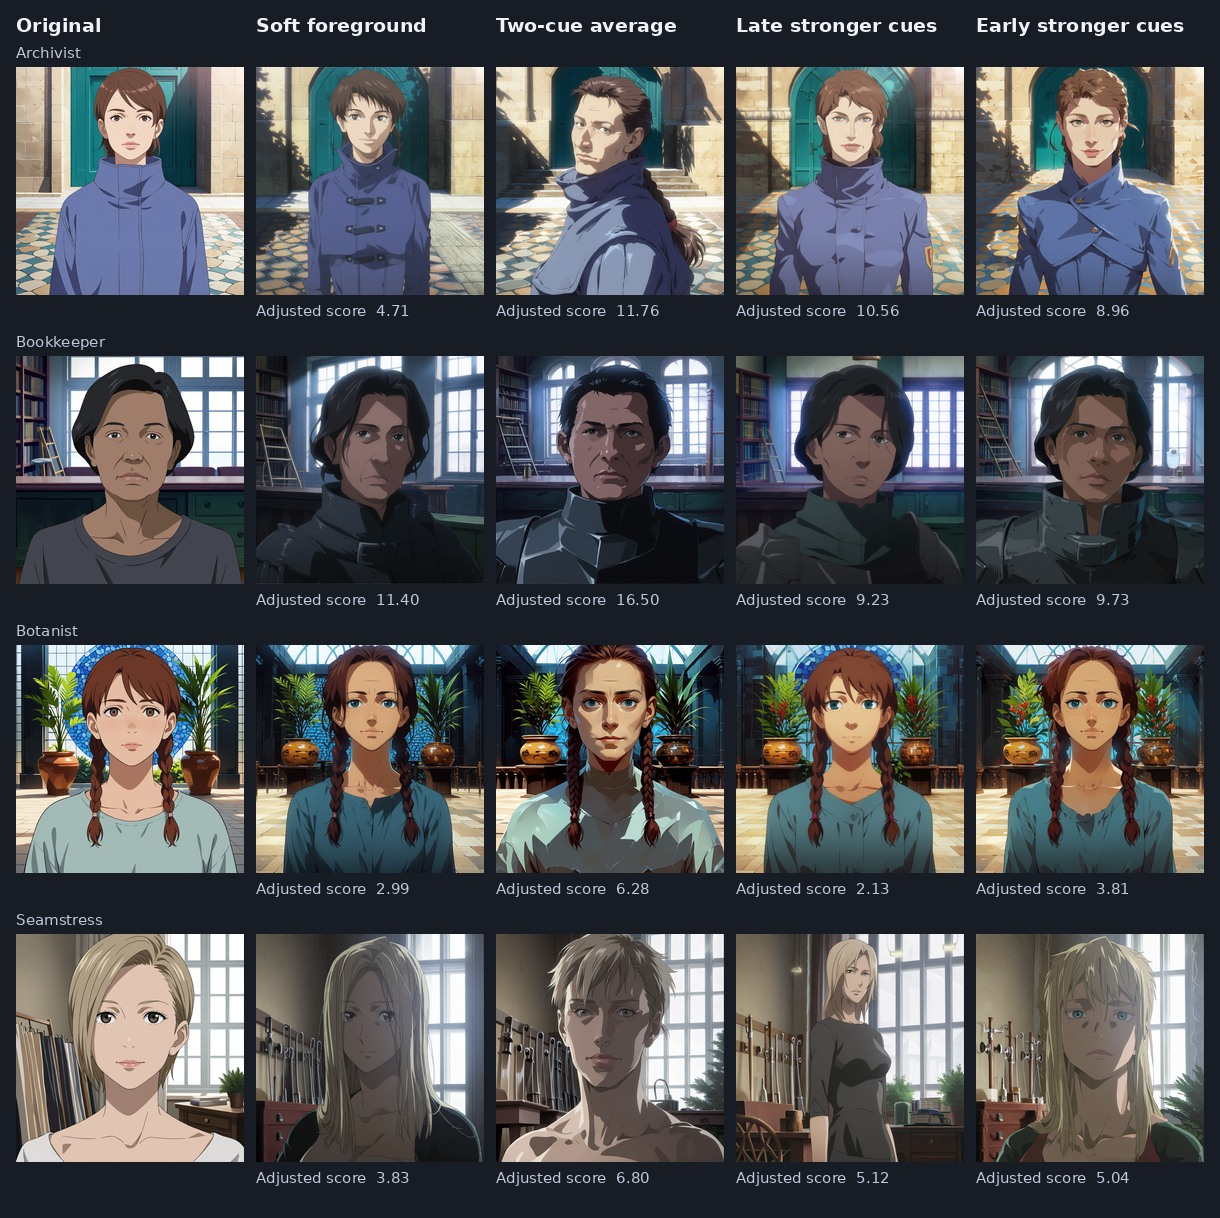
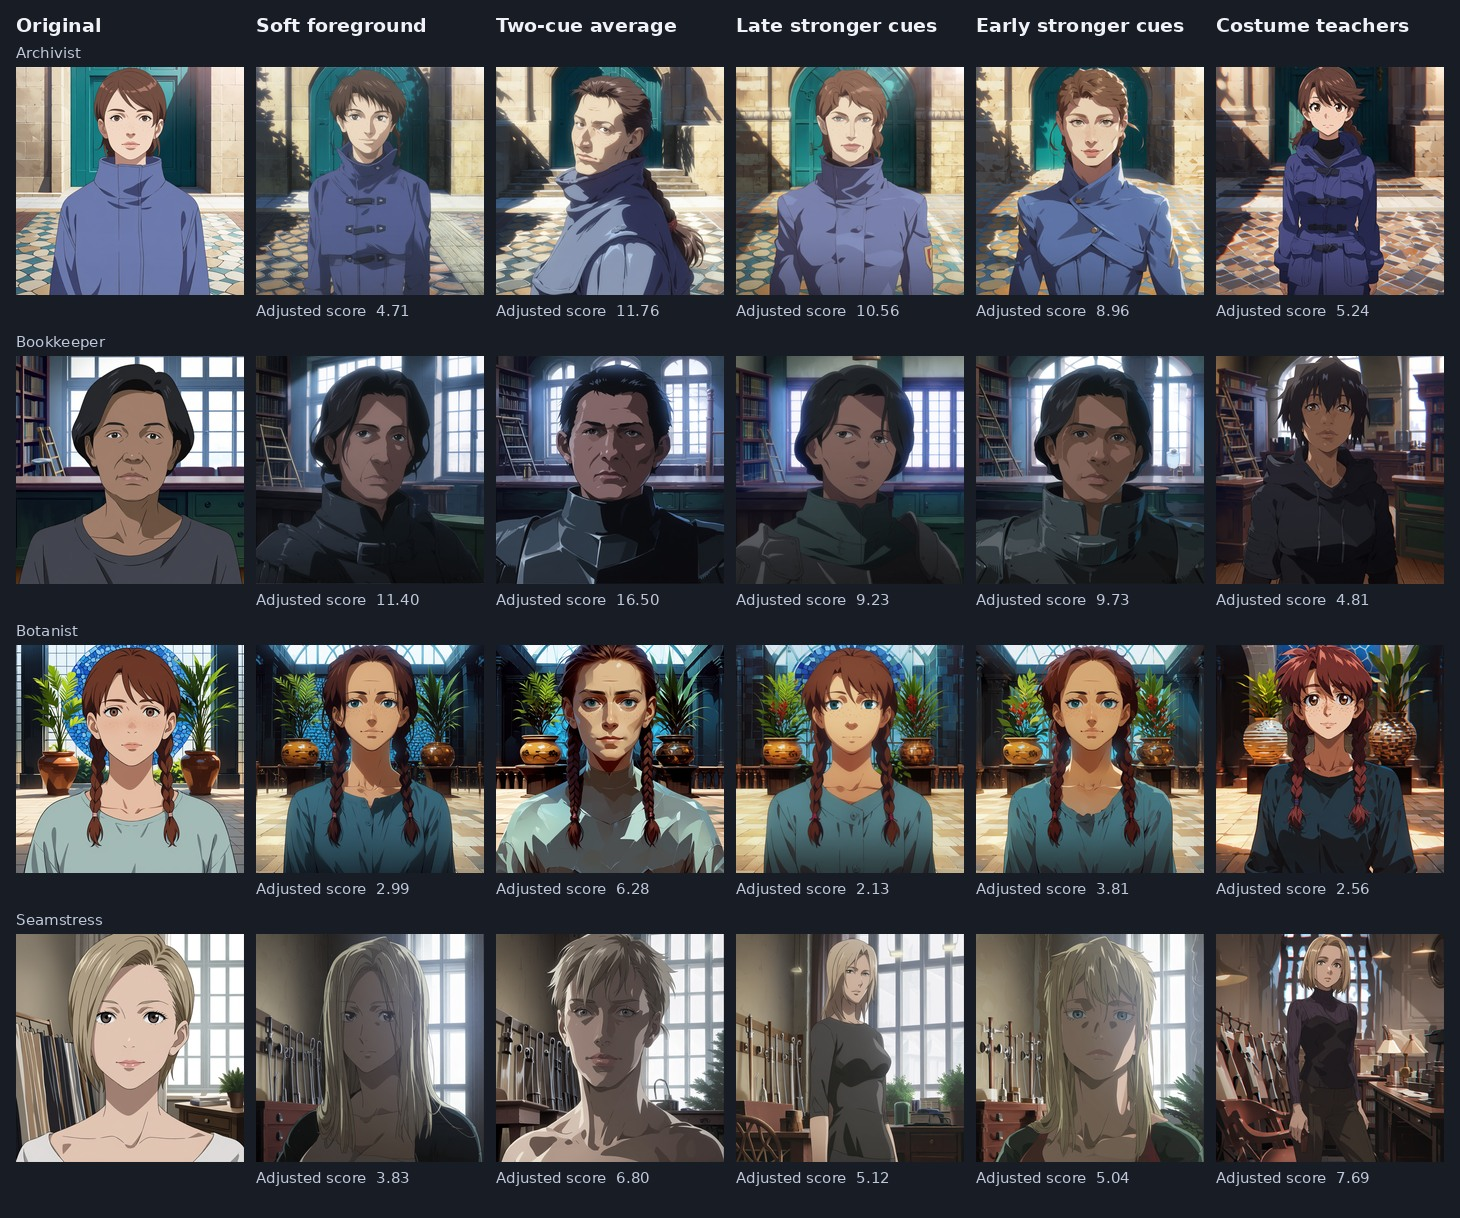
Compare the costume-teacher run at update 96

diff --git a/docs/leaderboard.md b/docs/leaderboard.md
@@ -39,9 +39,9 @@ Mean gain under the quarter-check question was **+0.228** for early cues, **+0.1
 
 ## Update-96 preview
 
-The two-cue average blends 35% of the mean of two alternate teacher edit directions into the original edit and keeps the 0.45 background floor and original per-field L2 norm. It led every case and scored **10.34** at shared early α 2/3. Early cues scored **6.89**, late cues **6.76**, and soft foreground weighting **5.73**. All four recipes passed the structural checks. Two-cue average had the lowest mean damage (**0.268**), though some edits visibly change the face, hair, or pose. [Matched originals and renders](final-boss-raw192/ablations/cue-timing-raw96-matched.jpg) · [Per-case scores](final-boss-raw192/ablations/cue-timing-raw96-scores.json) · [Training source and commands](final-boss-raw192/README.md#source-for-the-trained-targets)
+The two-cue average blends 35% of the mean of two alternate teacher edit directions into the original edit and keeps the 0.45 background floor and original per-field L2 norm. It scored **10.34** at shared early α 2/3 and led three cases. Early cues scored **6.89**, late cues **6.76**, soft foreground weighting **5.73**, and qualified costume teachers **5.08**. All five passed the structural checks. The costume teachers led on seamstress and had the lowest mean damage (**0.263**), with weaker mean Boss distinction gain than soft foreground weighting (**+0.098** versus **+0.125**). [Matched originals and renders](final-boss-raw192/ablations/cue-timing-raw96-matched.jpg) · [Per-case scores](final-boss-raw192/ablations/cue-timing-raw96-scores.json) · [Training source and commands](final-boss-raw192/README.md#source-for-the-trained-targets)
 
-The quarter-check question gave mean Jev gains of **+0.526** for the two-cue average, **+0.408** for early cues, **+0.373** for soft foreground weighting, and **+0.353** for late cues. The full training comparison uses the eight-case RAW192 panel.
+The quarter-check question gave mean Jev gains of **+0.526** for the two-cue average, **+0.408** for early cues, **+0.373** for soft foreground weighting, **+0.353** for late cues, and **+0.306** for costume teachers. The full training comparison uses the eight-case RAW192 panel.
 
 Each cue-timing recipe replaces 36 of the 120 teacher fields. The replacement moves the edit by an average of **22.0%** of its original L2 norm at the first three positions and **16.8%** at the last three. The source and replacement fields have matched L2 norms. [Teacher field distances by position](final-boss-raw192/ablations/cue-field-distances.json)
 
